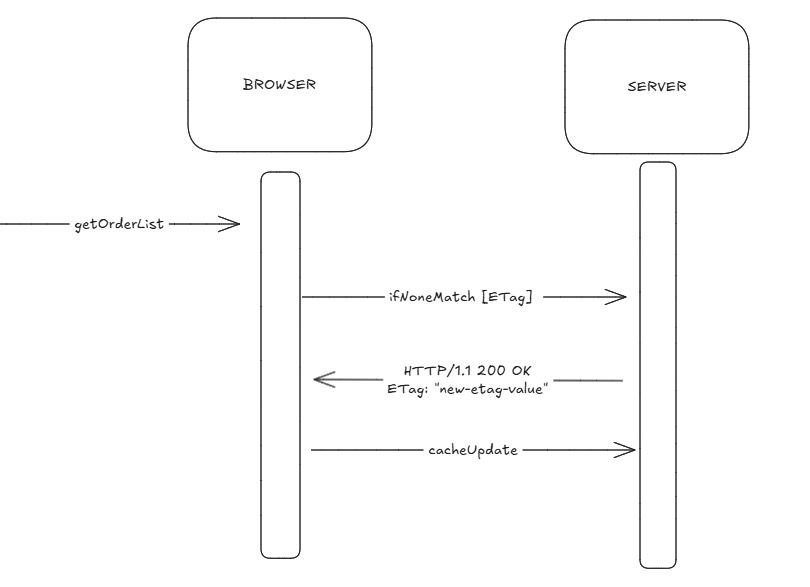
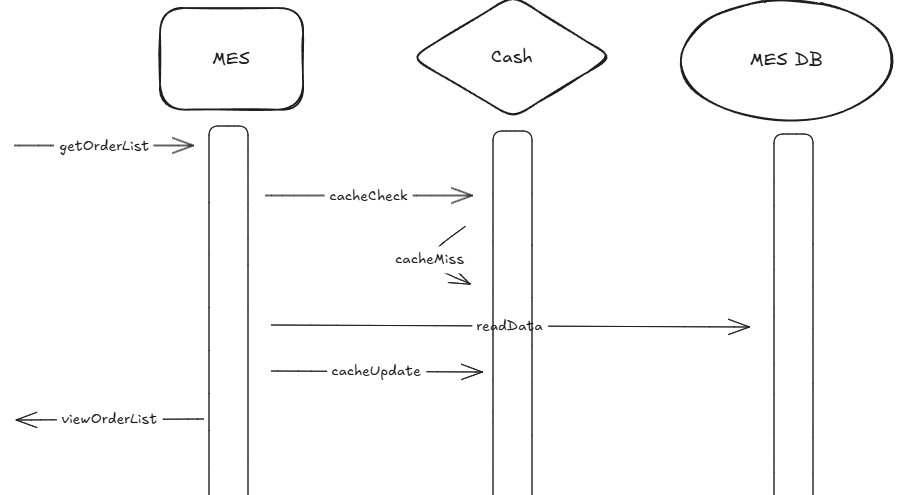
5

diff --git a/Exc5/Архитектурное решение по кешированию.md b/Exc5/Архитектурное решение по кешированию.md
@@ -1,25 +1,48 @@
 *Предлагаемое решение*
 
-Настройка HTTP-кэширования компонента MES: просто в реализации и не требует установки дополнительных компонентов, что в условиях ограниченных ресурсов и компетенций является большим плюсом. 
+Настройка серверного кэширования данных по заказам в MES. 
 
-Инвалидация кэша путем реализации стратегии "Validation-Based Caching":
+В отличие от клиентского, серверное кэширование не требует привязки к конкретному браузеру\устройству и позволяет лучше контролировать кэш (вовремя обновлять).
 
-![Сценарий проверки кэша, когда на сервере нет новых данных (заказов)](image.png)
+Рассмотрим два варианта реализации:
 
-![Сценарий проверки кэша, когда на сервере есть новые данные](image-1.png)
+1. Используя паттерн Cache-Aside
+    + Прост в реализации
+    + Хорошая производительность в случае, когда данные меняются реже, чем читаются (наш случай)
+    + В случае ошибки работы кэша, данные считаются из БД
 
-Консистентность данных нам важнее, чем скорость. Данный подход гарантирует, что клиент всегда работает с актуальными данными. 
-Недостатком является рост нагрузки на сервер.
+ Также, можно облегчить MES API, убрав из него логику вывода списка заказов. 
+
+![Сценарий "cache hit"](image.png)
+
+![Сценарий "cache miss"](image-1.png)
+
+2. Используя паттерн Event-Driven Caching
+    + Высокая производительность
+    - Сложно реализовать
+    + Наличие событийной инфраструктуры (RabbitMQ) должно существенно облегчить реализацию
+    - Ошибки в обработке событий могут привести к несогласованности данных.
+
+![Сценарий обновления статуса заказа](image-2.png)
+
+Причины, по которым другие паттерны не попали в шорт-лист для реализации:
+
+У Read-Through есть ограничение способов реализации формата данных в кэше (только идентичный БД) и чувствительность к ошибкам кэша;
+Refresh-Ahead не позволяет реагировать на изменения в реальном времени, так как обновления выполняются по заранее заданному расписанию (которого у нас нет).
+
+
+*Стратегия инвалидации*
+
+Консистентность данных нам важнее, чем скорость. Также, в нашем случае затруднительно определить TTL, тк заказы обрабатываются неравномерно по времени.
+Поэтому, обновлять кэш будем только после явной валидации ("Validation-Based Caching").
 
 С учетом специфики потребностей операторов, строго определим тип кэшируемых заказов по их статусу:
 
 cacheable (must-revalidate): MANUFACTURING_APPROVED, MANUFACTURING_STARTED, MANUFACTURING_COMPLETED, PACKAGING - сервер добавляет валидирующие заголовки (ETag) к ресурсам;
-non-cacheable (no-cache): все остальные статусы, заголовки не добавляются.
+non-cacheable (no-cache): все остальные статусы, заголовки не добавляются. При смене статуса заказа на один из non-cacheable, тот удаляется из кэша. 
 
 При первом открытии страницы, фильтр по умолчанию у каждого оператора должен выводить список заказов в "кэшируемых" статусах. Эта мера позволит снизить объем запросов на сервер, а также размер используемой кэшем памяти. 
 
-Оптимальный TTL кэша следует определить, учитывая среднюю продолжительность прохождения заказом этапов от MANUFACTURING_APPROVED до PACKAGING. Удалять только заказы в статусе MANUFACTURING_COMPLETED и PACKAGING методом LIFO - т.к. выше шанс того, что данные вскоре поменяются (изменится статус) и будут обновлены в кэше. 
-
 *Мотивация*
 
-Поможет существенно ускорить загрузку рабочей страницы оператора
+Поможет существенно ускорить загрузку рабочей страницы оператора и обеспечить актуальность рабочих данных.
